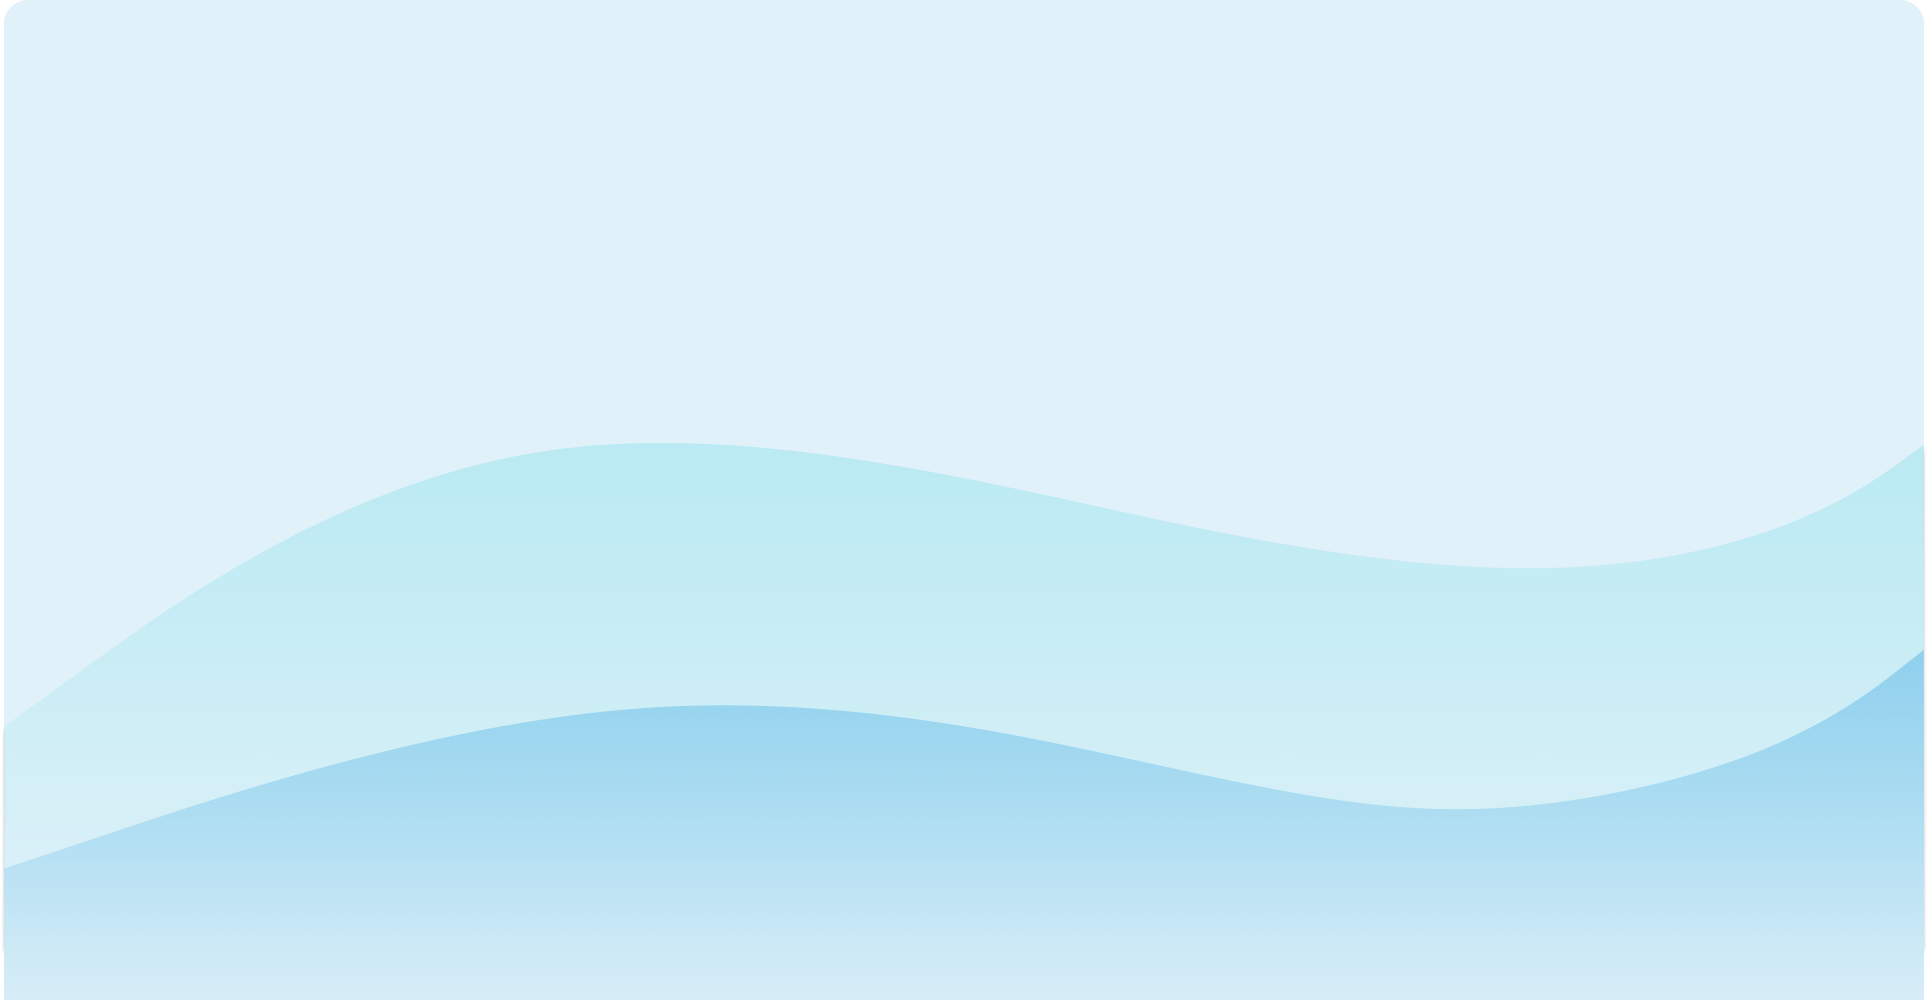
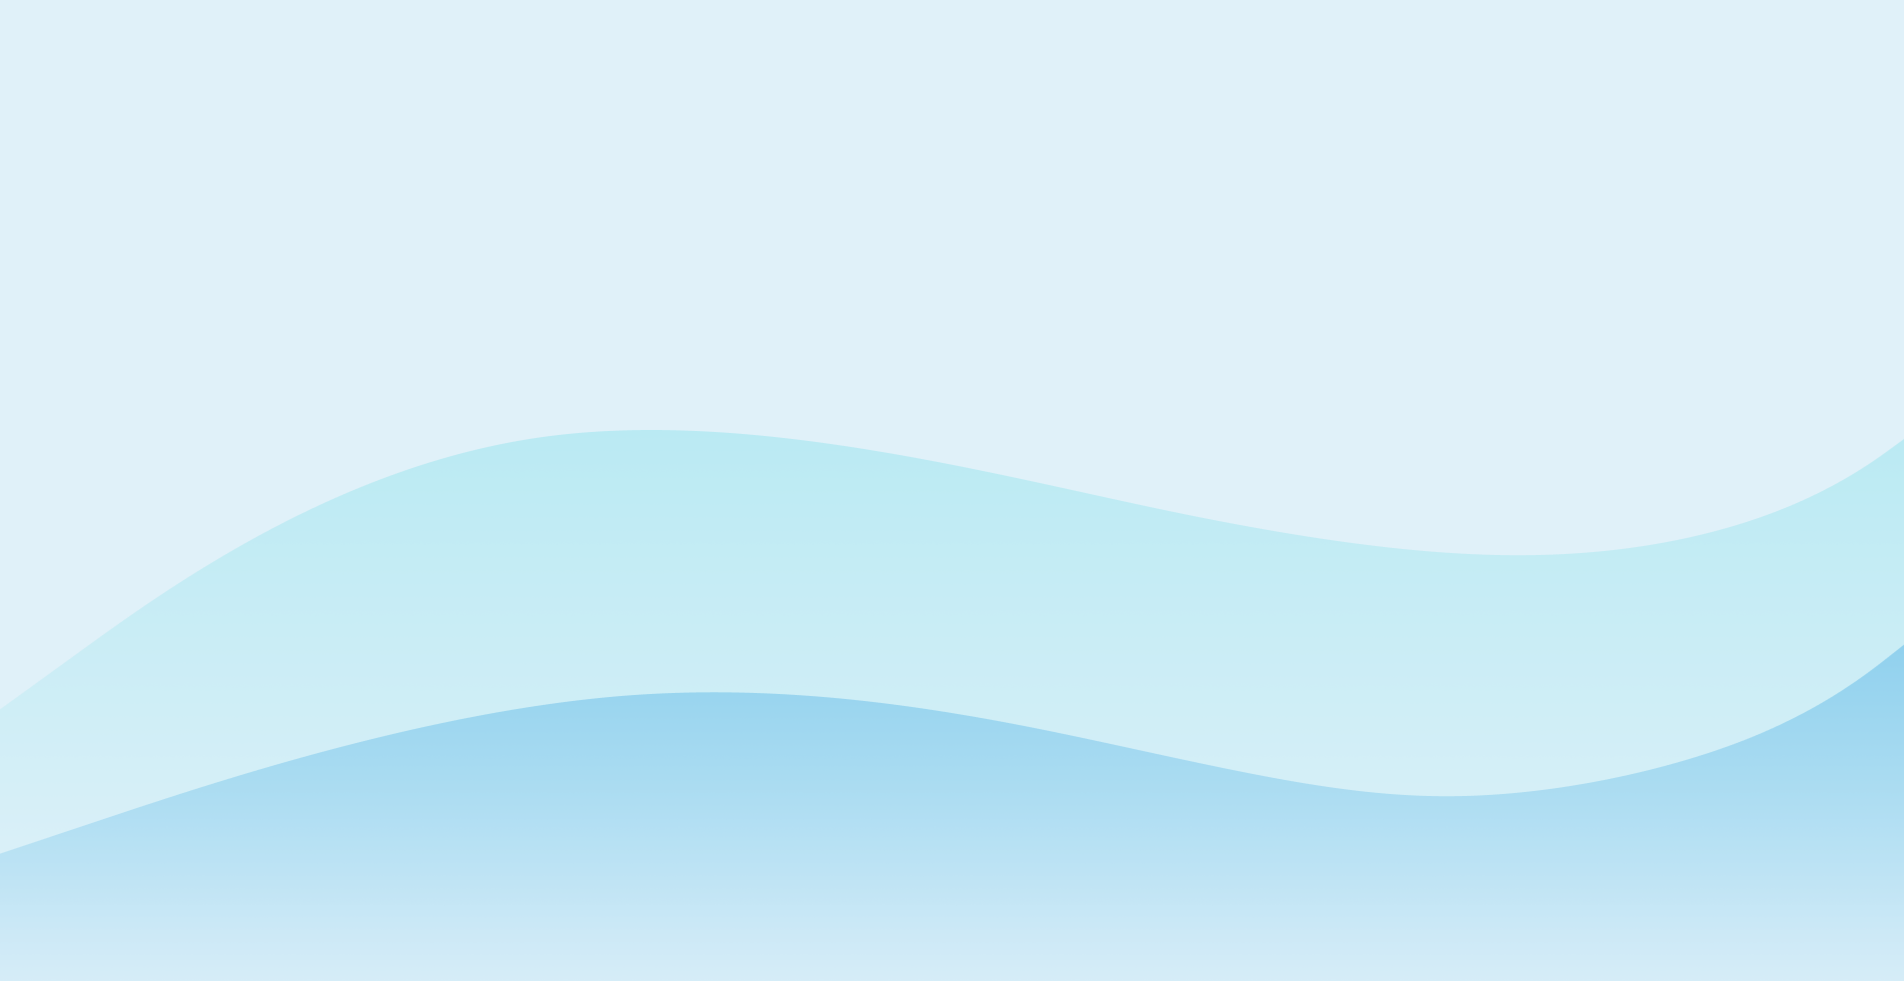
feat: bg fill update

diff --git a/src/styles/App.css b/src/styles/App.css
@@ -7,7 +7,12 @@ body {
    margin: 0px;
    padding: 0px;
    overflow: hidden;
-   background: #ececec;
+   /* background: #ececec; */
+   background-image: url(../img/bg-wawes.png);
+   background-size: cover;
+   background-position: center;
+   background-repeat: no-repeat;
+   height: 100dvh;
 }
 
 .page-container {
@@ -43,7 +48,7 @@ body {
    /* background: white; */
    border-radius: 20px 20px 0 0;
    /* box-shadow: 0px 0px 40px rgba(0, 0, 0, 0.2); */
-   background-image: url(../img/bg-wawes.png);
+   /* background-image: url(../img/bg-wawes.png); */
    background-size: cover;
    background-position: bottom;
 }
@@ -367,9 +372,11 @@ body {
 .welcome-bg-container {
    width: 100%;
    height: 100%;
-   background-image: url(../img/bg-wawes.png);
-   background-size: 102%;
-   background-position: center;
+   /* background-image: url(../img/bg-wawes.png); */
+
+   /* background-size: 102%;
+   background-position: center; */
+   background: #00000000;
    display: flex;
    align-items: center;
    justify-content: center;
@@ -481,7 +488,7 @@ body {
    font-size: 40px;
    /* padding: 10px 30px; */
    border-radius: 10px;
-   box-shadow: 0px 0px 40px rgba(0, 0, 0, 0.2);
+   /* box-shadow: 0px 0px 40px rgba(0, 0, 0, 0.2); */
    cursor: pointer;
    z-index: 100;
    animation-duration: 1000ms;
@@ -582,11 +589,11 @@ body {
 }
 .align-left {
    top: 28px;
-   left: 56px;
+   left: 35px;
 }
 .align-right {
    top: 28px;
-   right: 56px;
+   right: 25px;
 }
 
 .list-holder {

diff --git a/src/App.js b/src/App.js
@@ -48,10 +48,10 @@ function App() {
                   <SetupBoard {...{ scale, setBoard1, difficulty, setDifficulty }}></SetupBoard>
                )}
             </div>
+            {board1.length === 10 ? "" : <RulesLink ClickRL={rulesBtn}></RulesLink>}
             {showStart && <WelcomeHi clickCB={closeBtb} clickR={rulesBtn} />}
             {showRules && <Rules clickCB={closeBtb} />}
             {showStartModal && <StartModal clickHide={closeBtnModal} />}
-            {board1.length === 10 ? "" : <RulesLink ClickRL={rulesBtn}></RulesLink>}
          </div>
       </>
    );

diff --git a/src/components/Game/Table.jsx b/src/components/Game/Table.jsx
@@ -113,7 +113,7 @@ function Table({ type, board, classNames }) {
    classList.push(type === 1 ? "opponent-board" : "your-board");
    return (
       <div className={classList.join(" ")}>
-         <h2 className="table-head-text">{(type ? "Вражеское" : "Ваше") + " поле"}</h2>
+         <h2 className="table-head-text">{(type ? "Инфицированная" : "Чистая") + " зона"}</h2>
          <table className={tableNames.join(" ")}>
             <tbody>{rows}</tbody>
          </table>
